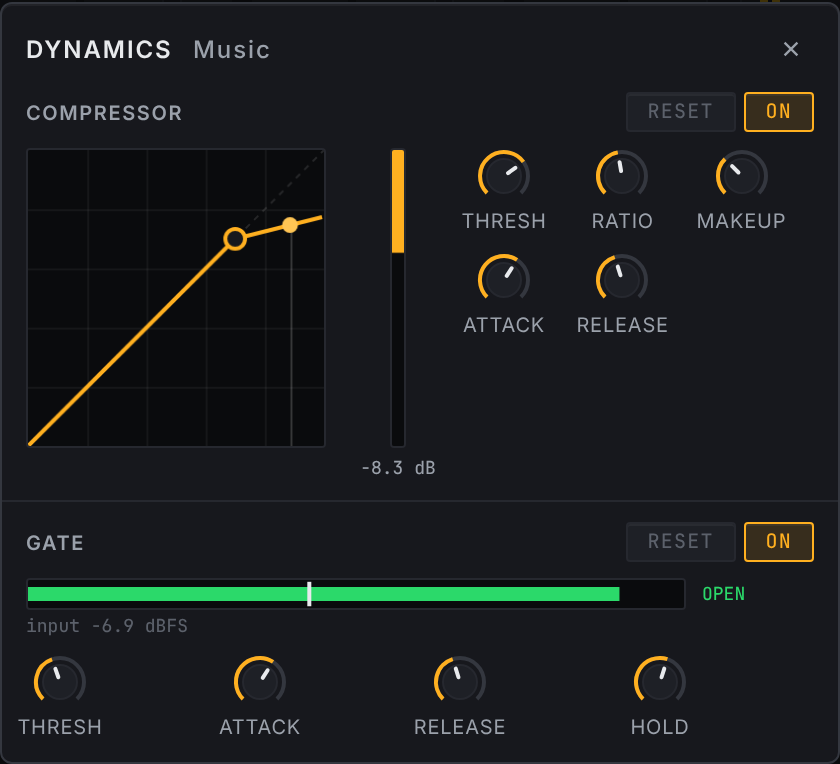
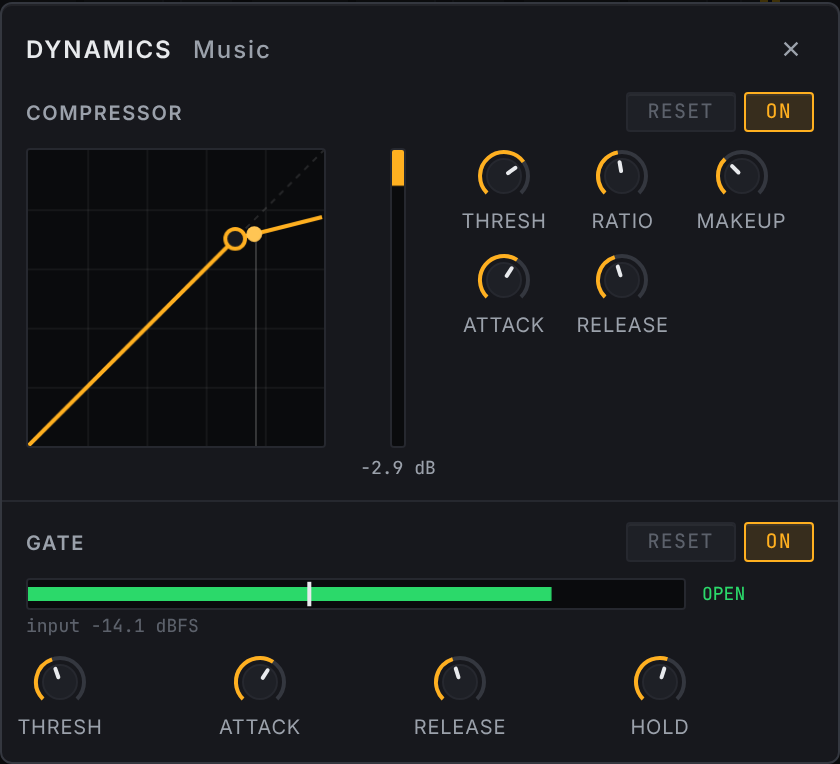
0.4.0: Debian package, mic warning tone; README and notes
Claude-Session: https://claude.ai/code/session_01AJUxLsgYgFB4otw3AJgsAm

diff --git a/README.md b/README.md
@@ -14,17 +14,24 @@ backups.
 
 ## Install
 
-**Arch Linux**: download `linuxmeeter-*.pkg.tar.zst` from the
-[Releases page](https://github.com/Schnubbirunkel/linuxmeeter/releases), then
+Download the package for your system from the
+[Releases page](https://github.com/Schnubbirunkel/linuxmeeter/releases).
+
+**Arch Linux** — `linuxmeeter-*.pkg.tar.zst`:
 
 ```sh
 sudo pacman -U linuxmeeter-*.pkg.tar.zst
 ```
 
-pacman pulls in what it needs (PipeWire with `pipewire-audio`, WirePlumber,
-`lsp-plugins-lv2`, `webkit2gtk-4.1`, `gtk3`, `libayatana-appindicator`).
+**Debian 13 (trixie)** — `linuxmeeter_*_amd64.deb`:
 
-Other distributions: build from source (below).
+```sh
+sudo apt install ./linuxmeeter_*_amd64.deb
+```
+
+Both pull in what they need (PipeWire, WirePlumber, `lsp-plugins-lv2`,
+WebKitGTK 4.1, GTK 3, the Ayatana tray library). Other distributions: build
+from source (below).
 
 ## Features
 
@@ -79,6 +86,9 @@ Other distributions: build from source (below).
   they work everywhere, also with the window hidden, and show up in System
   Settings → Shortcuts. On other desktops, bind the `linuxmeeter ctl …`
   commands Settings lists to keys in the desktop's own shortcut settings
+- **Microphone warning tone** — two short notes on your speakers when the
+  microphones are muted (falling) or go live (rising), however you did it;
+  played straight to the hardware, never into a virtual mic (can be turned off)
 - **Desktop notifications** — profile switches and shortcut actions show a
   notification even while the window is hidden (can be turned off)
 - **Tray menu** — mute all microphones, switch profile, show the mixer;
@@ -97,8 +107,8 @@ Other distributions: build from source (below).
 
 ## Requirements
 
-- PipeWire ≥ 1.0 with WirePlumber (on Arch also `pipewire-audio`, which holds
-  the filter-chain LV2 support)
+- PipeWire ≥ 1.0 with WirePlumber and filter-chain LV2 support (Arch:
+  `pipewire-audio`; Debian: `libspa-0.2-modules`)
 - `lsp-plugins-lv2` (gate/compressor/EQ/limiter DSP)
 - `webkit2gtk-4.1`, `gtk3`, `libayatana-appindicator` (UI shell + tray)
 - For in-app global shortcuts: KDE Plasma (its `kglobalaccel` service)
@@ -123,8 +133,11 @@ Arch users: see `packaging/PKGBUILD` (git build) or `packaging/release/PKGBUILD`
 - `cargo run --example graph -p lm-engine` drives the full audio topology
   from a REPL without the UI.
 - CI runs the unit tests and `make test-audio` (real PipeWire, real LSP
-  plugins) in an Arch container on every push; a push to `main` with a new
-  version in `packaging/release/PKGBUILD` publishes a release.
+  plugins) in an Arch container on every push, and on Debian trixie builds
+  the `.deb` (`packaging/debian/build-deb.sh`), installs it with apt and
+  smoke-tests it with WirePlumber (`packaging/debian/smoke-test.sh`). A push
+  to `main` with a new version in `packaging/release/PKGBUILD` publishes a
+  release with both packages.
 
 ## License
 

diff --git a/packaging/release/NOTES.md b/packaging/release/NOTES.md
@@ -1,21 +1,24 @@
 Fork of [dslapelis/linuxmeeter](https://github.com/dslapelis/linuxmeeter).
 
-## New in 0.3.0
+## New in 0.4.0
 
-- **Add and remove strips and buses**: "+" beside Hardware / Virtual / Buses, × in a strip's header. Up to 16 strips; buses A1–A4 (outputs) and B1–B3 (virtual mics).
-- **Virtual devices show up in KDE's volume applet** (they were hidden as "virtual devices").
-- **EQ with up to 12 points** per strip: double-click the curve to add one; peak, shelves, low cut and high cut.
-- **Gain-reduction displays**: under every bus limiter, and live in the dynamics panel (input level on the compressor curve, compressor reduction, gate open/closed).
-- **Global shortcuts set inside the app** (Settings → Global shortcuts) for mute, ±5 %, mute all microphones and next/previous profile. On KDE Plasma they work everywhere, also with the window hidden.
-- **Tray menu**: mute all microphones, switch profile.
-- **Backup**: export / import every profile and setting as one file (Settings, or `linuxmeeter ctl export|import <file>`).
+- **Debian package**: `linuxmeeter_0.4.0_amd64.deb` for Debian 13 (trixie). Built, installed with apt and smoke-tested on trixie with PipeWire, WirePlumber and the real LSP plugins.
+- **Microphone warning tone**: two short notes on your speakers when the microphones are muted (falling) or go live again (rising) — from the tray, a shortcut, the command line or the M button. Played straight to the speakers, never into a virtual mic. Can be turned off in Settings.
+- **Fix: stereo could collapse to mono (+6 dB)**: when PipeWire reported no channel names on a route, every output was linked to every input. Channels are now always declared and paired correctly.
+- **Fix: profile-switch notifications on KDE**: Plasma silently swallowed notifications that replaced an expired one, so later switches showed nothing.
 
-## Since 0.2.0
+## In 0.3.0
 
-Rename strips and buses (the name other programs see changes too), profile switching, desktop notifications, `linuxmeeter ctl` for scripts.
+Add/remove strips and buses (up to 16 strips, A1–A4, B1–B3), devices visible in KDE's volume applet, EQ with up to 12 points incl. low/high cut, gain-reduction displays for limiter, compressor and gate, global shortcuts set inside the app, tray menu (mute all mics, profiles), backup export/import.
 
-## Install (Arch)
+## Install
 
-    sudo pacman -U linuxmeeter-*.pkg.tar.zst
+**Arch Linux**
 
-Needs PipeWire (`pipewire-audio`) with WirePlumber, `lsp-plugins-lv2`, `webkit2gtk-4.1`, `gtk3`, `libayatana-appindicator`; pacman installs them.
+    sudo pacman -U linuxmeeter-0.4.0-1-x86_64.pkg.tar.zst
+
+**Debian 13 (trixie)**
+
+    sudo apt install ./linuxmeeter_0.4.0_amd64.deb
+
+Both pull in PipeWire, WirePlumber, `lsp-plugins-lv2` and the WebKitGTK / tray libraries.
